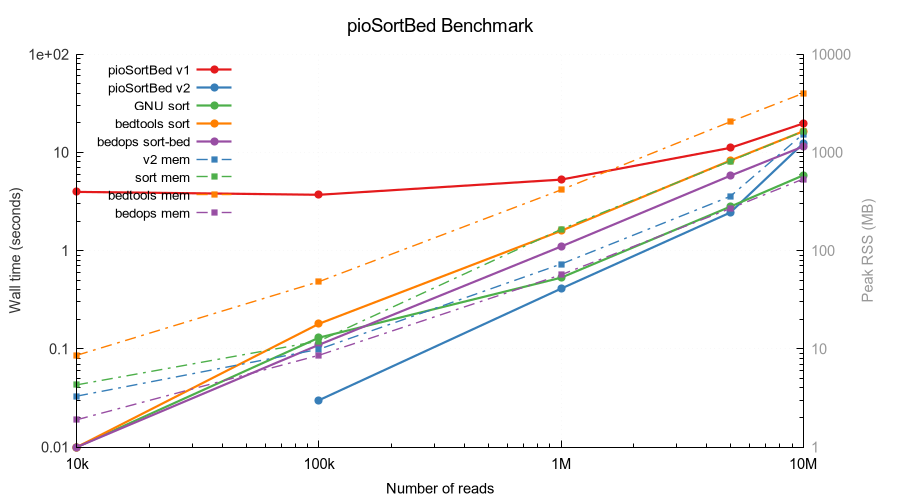
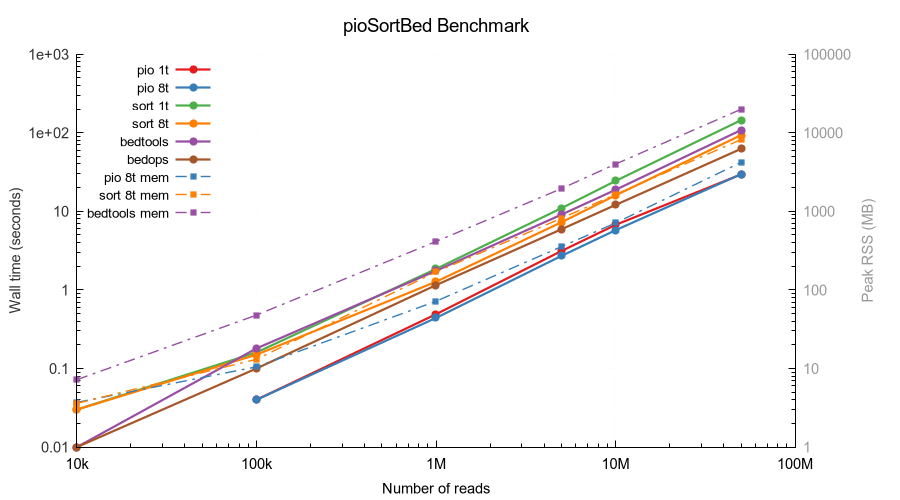
v1.1.0: Benchmark results and plot with real data
- Add wall time and peak memory tables to README (10k–50M reads)
- Regenerate benchmark plot from actual measurements on 8-core machine
- Benchmark tools: pioSortBed (1t/8t), GNU sort (1t/8t), bedtools, bedops
- Use 'min' instead of 'm' for minutes in time formatting (SI compliance)
- pioSortBed is 3–4× faster than GNU sort up to 10M reads;
  at 50M reads bucket sort gives 3–5× speedup over all competitors

diff --git a/README.md b/README.md
@@ -66,9 +66,31 @@ Sorting random BED6 files (10 chromosomes, coordinates 0–249 Mbp). Wall time a
 
 Solid lines = wall time (left axis), dashed lines = peak memory (right axis). Log–log scale.
 
-Run `bash benchmark.sh` to reproduce (requires GNU time; gnuplot for the plot).
+### Wall time
 
-> The hybrid strategy uses classic sort for < 50M reads and bucket sort above that threshold (configurable via `--bucket-cutoff`).
+| Reads | pio 1t | pio 8t | sort 1t | sort 8t | bedtools | bedops |
+|------:|-------:|-------:|--------:|--------:|---------:|-------:|
+| 10k   | < 10 ms | < 10 ms | 30 ms | 30 ms | 10 ms | 10 ms |
+| 100k  | **40 ms** | **40 ms** | 160 ms | 150 ms | 180 ms | 100 ms |
+| 1M    | 490 ms | **440 ms** | 1.85 s | 1.27 s | 1.75 s | 1.15 s |
+| 5M    | 3.13 s | **2.71 s** | 10.97 s | 7.26 s | 9.09 s | 5.92 s |
+| 10M   | 6.72 s | **5.75 s** | 24.36 s | 15.97 s | 18.78 s | 12.06 s |
+| 50M   | **29.45 s** | 29.71 s | 2min25s | 1min33s | 1min48s | 1min02s |
+
+### Peak memory (RSS)
+
+| Reads | pio 1t | pio 8t | sort 1t | sort 8t | bedtools | bedops |
+|------:|-------:|-------:|--------:|--------:|---------:|-------:|
+| 10k   | 3.5 MB | 3.7 MB | 3.5 MB | 3.6 MB | 7.2 MB | **2.7 MB** |
+| 100k  | **9.9 MB** | 10.5 MB | 12.5 MB | 13.1 MB | 47.8 MB | 11.1 MB |
+| 1M    | **70.9 MB** | 71.7 MB | 89.4 MB | 169.4 MB | 412.8 MB | 55.6 MB |
+| 5M    | **338.3 MB** | 355.3 MB | 433.6 MB | 816.3 MB | 1.9 GB | 269.2 MB |
+| 10M   | **673.9 MB** | 710.3 MB | 864.5 MB | 1.6 GB | 3.9 GB | 536.2 MB |
+| 50M   | 4.1 GB | 4.1 GB | 4.2 GB | 8.0 GB | 19.4 GB | **2.6 GB** |
+
+> pioSortBed uses a hybrid strategy: classic sort for < 50M reads, bucket sort above (configurable via `--bucket-cutoff`). At 50M reads the bucket sort kicks in — note the flat time scaling and constant memory. GNU sort 8-thread uses 2× the memory of its single-threaded mode.
+
+Run `bash benchmark.sh` to reproduce (requires GNU time; gnuplot for the plot).
 
 ## Compile-time Limits
 
@@ -83,4 +105,4 @@ These constants can be changed and the program recompiled if needed:
 
 ## Author
 
-Piotr Balwierz — Imperial College London
+Piotr Balwierz
